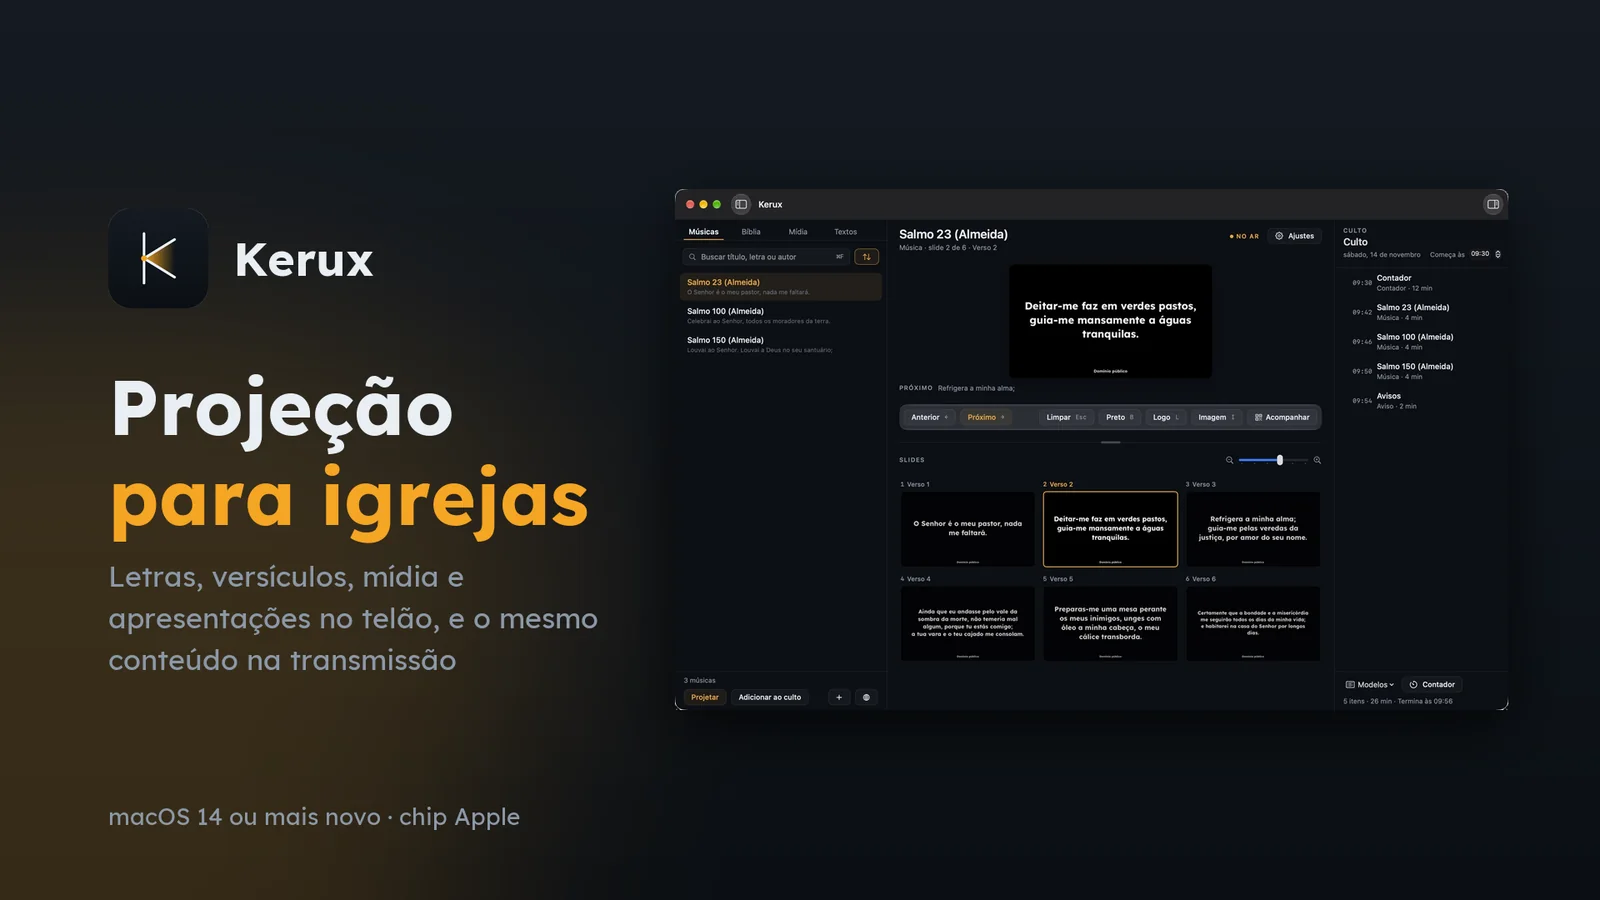
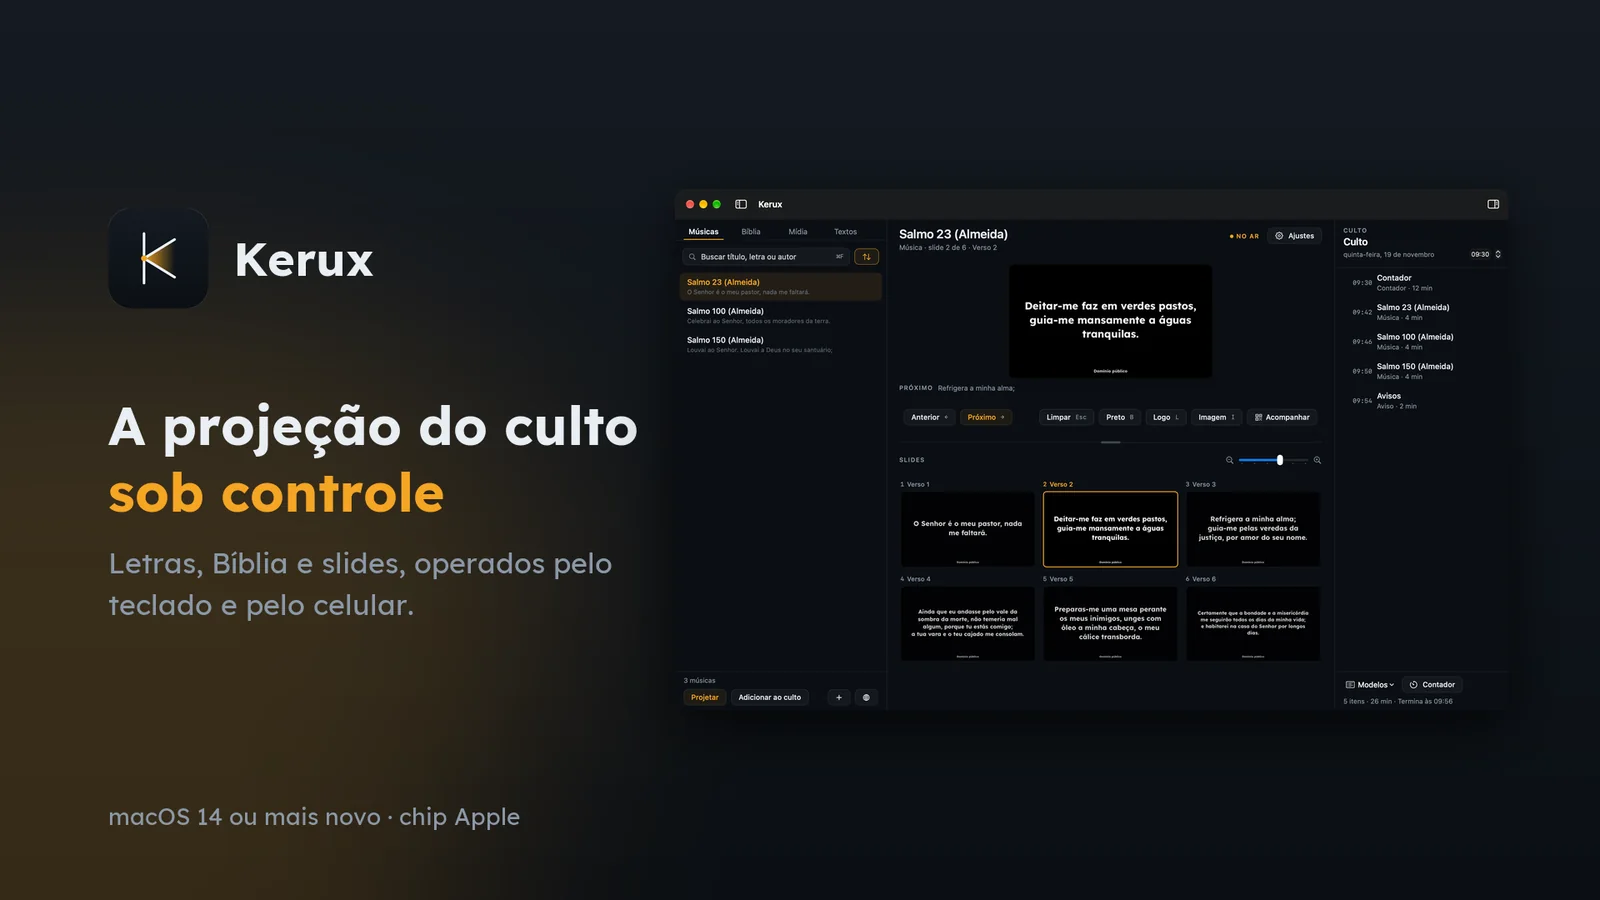
Kerux: capa nova e a promessa na página e na home (#84)
«A projeção do culto sob controle», aprovada em 19/11/2026, no texto de
abertura de /kerux/ e no bloco do Kerux da home. capa.webp é a do repositório
do app.

diff --git a/public/index.html b/public/index.html
@@ -736,7 +736,7 @@
           <div class="sw-text">
             <p class="sw-brand"><img src="img/kerux/simbolo.svg" alt="" width="44" height="44"><span>Kerux</span></p>
             <h3 class="sw-title">Projeção para igrejas, nativa de Mac, em português.</h3>
-            <p>Letras, versículos, mídia e apresentações no telão, e o mesmo conteúdo na transmissão, operado por um
+            <p><strong>A projeção do culto sob controle.</strong> Letras, versículos, mídia e apresentações no telão, e o mesmo conteúdo na transmissão, operado por um
               voluntário com o teclado ou com o celular.</p>
             <ul class="sw-list">
               <li><strong>Bíblia navegável</strong> e músicas a três toques do telão.</li>

diff --git a/public/kerux/index.html b/public/kerux/index.html
@@ -62,7 +62,7 @@
         <p class="kicker"><span class="bars" aria-hidden="true"><span></span><span></span><span></span><span></span></span>
           Software para Mac</p>
         <h1 class="page-title">Kerux: projeção para igrejas</h1>
-        <p class="sw-lead">Letras, versículos, mídia e apresentações no telão, e o mesmo conteúdo na transmissão.
+        <p class="sw-lead"><strong>A projeção do culto sob controle.</strong> Letras, versículos, mídia e apresentações no telão, e o mesmo conteúdo na transmissão.
           Nativo de Mac, em português, operado por um voluntário com o teclado ou com o celular.</p>
         <div class="sw-head-actions">
           <a class="btn btn-primary" href="#baixar">Baixar para Mac</a>
